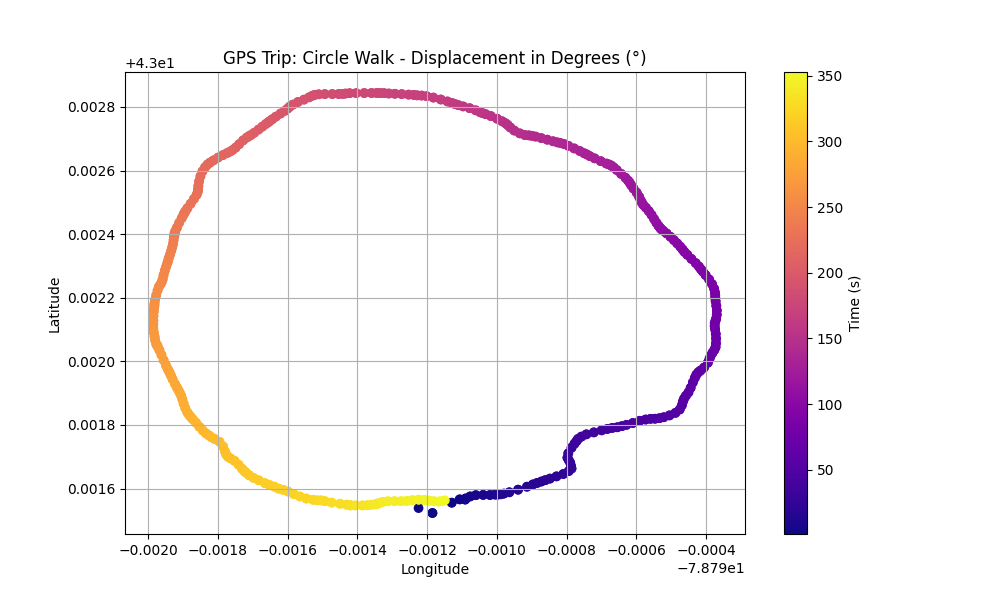
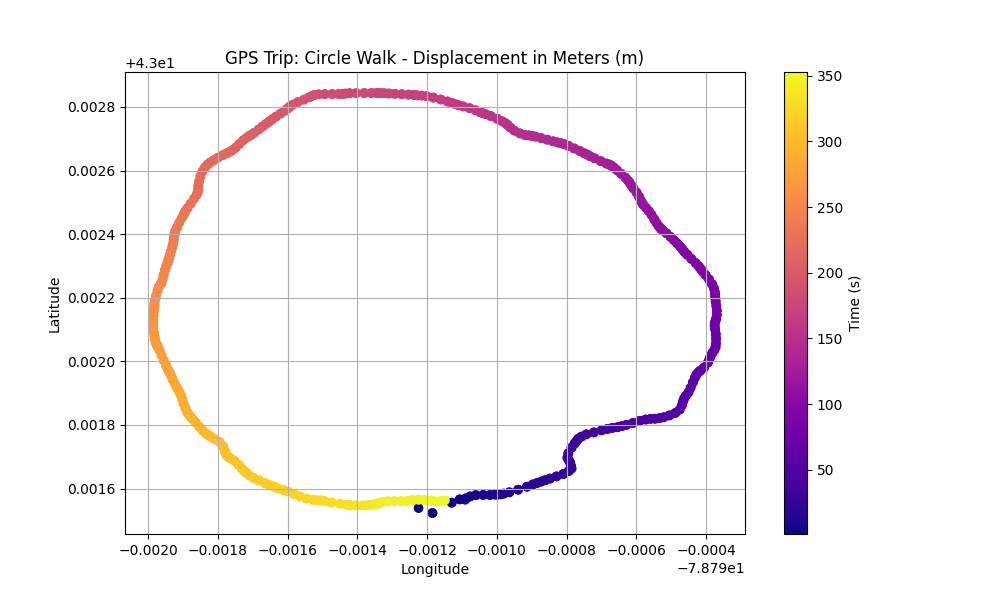
fixed projection, pathing issues, linting issues

Changed region(s): [[0.217, 0.06, 0.651, 0.12]]

diff --git a/code/utils.py b/code/utils.py
@@ -316,6 +316,65 @@ def plot_gpstrip_segments_with_color(gps_trip, save_path=None, title=None):
         plt.savefig(save_path+gps_trip.experiment_name+".png")
     plt.show()
 
+def plot_gps_2d_projection(
+        gps_trip,
+        ref_latitude=None,
+        ref_longitude=None,
+        save_path=None,
+        title=None):
+    """
+    Projects GPS data (in WGS84) onto a 2D XY plane and plots it, coloring points
+    based on relative time.
+
+    Args:
+        gps_trip (GpsTrip): A GpsTrip object with GPS data including 'Time (s)',
+            'Latitude (°)', and 'Longitude (°)' columns.
+        ref_latitude (float, optional): Reference latitude for projection.
+            Defaults to the mean latitude in gps_trip.
+        ref_longitude (float, optional): Reference longitude for projection.
+            Defaults to the mean longitude in gps_trip.
+        save_path (str, optional): If provided, saves the plot to this path.
+        title (str, optional): Title for the plot.
+
+    Returns:
+        None: Displays the plot of the projected GPS coordinates.
+    """
+    # Dictionary to hold grouped values for the projection
+    d = {
+        'ref_lat': ref_latitude or gps_trip.data['Latitude (°)'].mean(),
+        'ref_lon': ref_longitude or gps_trip.data['Longitude (°)'].mean(),
+        'earth_radius': 6378137,  # WGS84 semi-major axis
+        'lat_rad': np.radians(gps_trip.data['Latitude (°)']),
+        'lon_rad': np.radians(gps_trip.data['Longitude (°)']),
+    }
+    d['ref_lat_rad'] = np.radians(d['ref_lat'])
+    d['ref_lon_rad'] = np.radians(d['ref_lon'])
+
+    # Apply equirectangular projection formula
+    x = d['earth_radius'] * (d['lon_rad'] - d['ref_lon_rad']) * np.cos(d['ref_lat_rad'])
+    y = d['earth_radius'] * (d['lat_rad'] - d['ref_lat_rad'])
+
+    # Normalize time for color mapping
+    d['times'] = gps_trip.data['Time (s)'].values
+    d['norm'] = plt.Normalize(d['times'].min(), d['times'].max())
+
+    # Plotting the projected points with time-based colors
+    plt.figure(figsize=(10, 6))
+    sc = plt.scatter(x, y, c=d['times'], cmap="nipy_spectral", norm=d['norm'], marker='o')
+    cbar = plt.colorbar(sc)
+    cbar.set_label('Time (s)')
+
+    plt.xlabel('X (meters)')
+    plt.ylabel('Y (meters)')
+    plt.title(title or 'Equirectangular Projection of GPS Coordinates (Colored by Time)')
+    plt.grid(True)
+
+    # Save plot if path is provided
+    if save_path is not None:
+        plt.savefig(save_path + gps_trip.experiment_name + "_projection.png")
+
+    plt.show()
+
 def plot_acceltrip_acceleration_with_color(accel_trip, **kwargs):
     """
     Plots the specified acceleration component (x, y, z, or total) of an AccelTrip

diff --git a/code/test_trip.py b/code/test_trip.py
@@ -89,12 +89,13 @@ def test_gpstrip_extract_gps_data(mock_import_csv):
     gps_trip = GpsTrip("AVG001_gps_circle_walk_1")
     gps_data = gps_trip.extract_gps_data()
     expected_columns = [
-        "Time (s)",
+        "LinterFix",
         "Latitude (°)",
         "Longitude (°)",
         "Altitude (m)",
         "Altitude WGS84 (m)"
     ]
+    expected_columns[0] = "Time (s)"
     assert gps_data is not None, "GPS data should not be None."
     assert isinstance(gps_data, pd.DataFrame), "GPS data should be a DataFrame."
     m1 = "All expected columns should be present."
